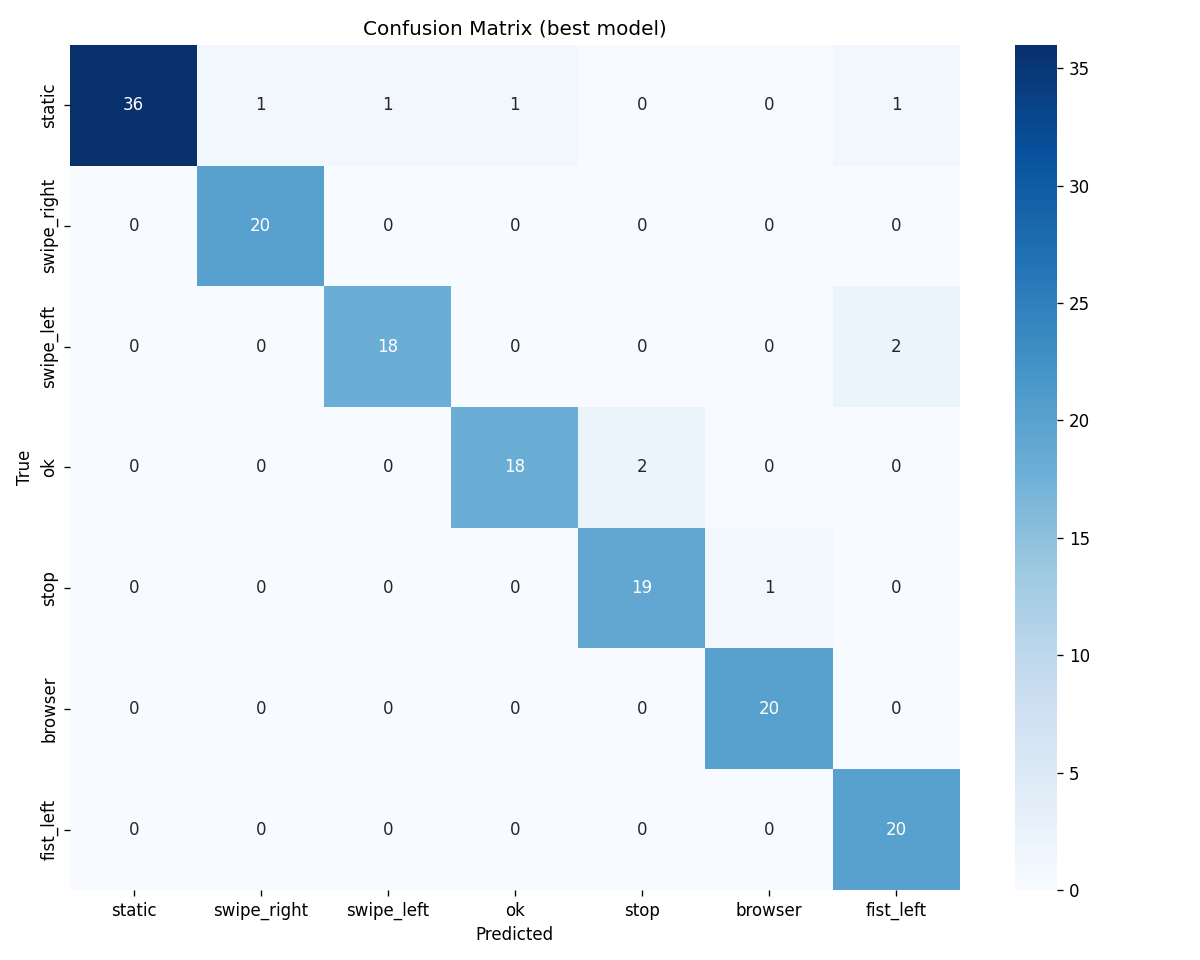
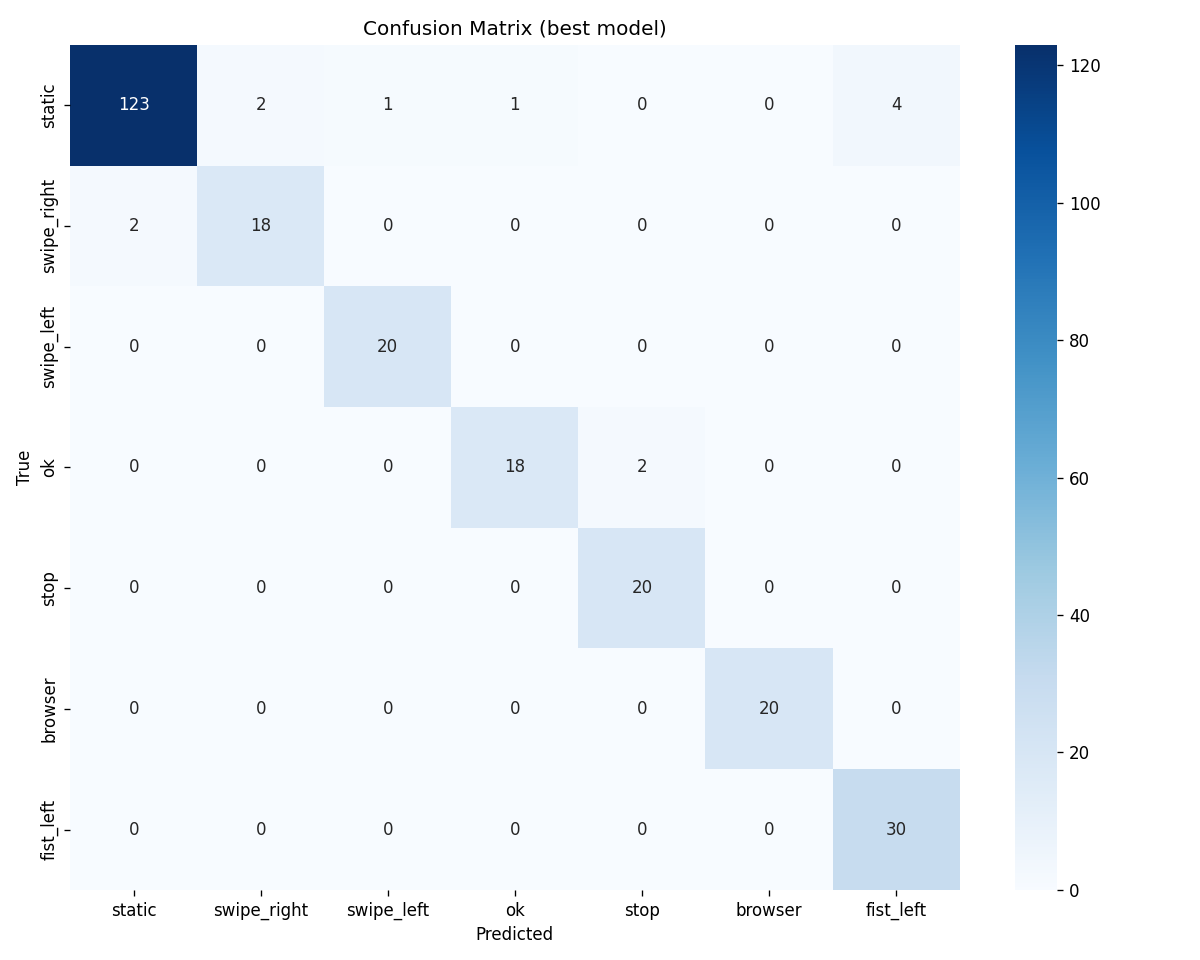
implement LSTM-based gesture recognition pipeline with training scripts and analysis tools

diff --git a/src/main.py b/src/main.py
@@ -161,11 +161,12 @@ def main():
     mp_hands   = mp.solutions.hands
     mp_drawing = mp.solutions.drawing_utils
 
-    current_mode   = "GESTURES"
-    sequence       = []
-    last_gesture   = "READY"
-    cooldown       = 0
-    fist_frames    = 0
+    current_mode    = "GESTURES"
+    sequence        = []
+    last_gesture    = "READY"
+    cooldown        = 0
+    fist_frames     = 0
+    hand_was_present = False   # Трекінг: чи була рука в попередньому кадрі
     switch_counter = 0
 
     if DRY_RUN:
@@ -228,7 +229,18 @@ def main():
                 fist_frames = 0
 
             # Збір ключових точок
-            if results.multi_hand_landmarks:
+            hand_present = bool(results.multi_hand_landmarks)
+
+            if hand_present and not hand_was_present:
+                # Рука щойно з'явилася — скидаємо буфер і дельту,
+                # щоб різкий стрибок з нулів не виглядав як свайп
+                sequence = []
+                reset_delta_state()
+                cooldown = max(cooldown, 1)  # коротка пауза (5 кадрів ≈ 0.17 сек)
+
+            hand_was_present = hand_present
+
+            if hand_present:
                 keypoints = extract_keypoints(results)
                 sequence.append(keypoints)
                 sequence = sequence[-SEQ_LENGTH:]

diff --git a/src/train.py b/src/train.py
@@ -103,7 +103,11 @@ def load_data() -> tuple[np.ndarray, np.ndarray]:
             print(f"[train] ⚠️  Папка не знайдена: {gesture_path}")
             continue
 
-        sequences = sorted(os.listdir(gesture_path), key=lambda x: int(x) if x.isdigit() else x)
+        # Беремо тільки папки, назви яких є числами, і сортуємо їх як цілі числа
+        sequences = sorted(
+            [s for s in os.listdir(gesture_path) if s.isdigit()],
+            key=int
+        )
         print(f"  → '{gesture}': {len(sequences)} sequences")
 
         for seq in sequences:

diff --git a/src/data_analysis.py b/src/data_analysis.py
@@ -39,8 +39,8 @@ def analyze_data() -> None:
             continue
 
         sequences = sorted(
-            [s for s in os.listdir(gesture_path) if os.path.isdir(os.path.join(gesture_path, s))],
-            key=lambda x: int(x) if x.isdigit() else x
+            [s for s in os.listdir(gesture_path) if os.path.isdir(os.path.join(gesture_path, s)) and s.isdigit()],
+            key=int
         )
         seq_count    = len(sequences)
         lost_frames  = 0